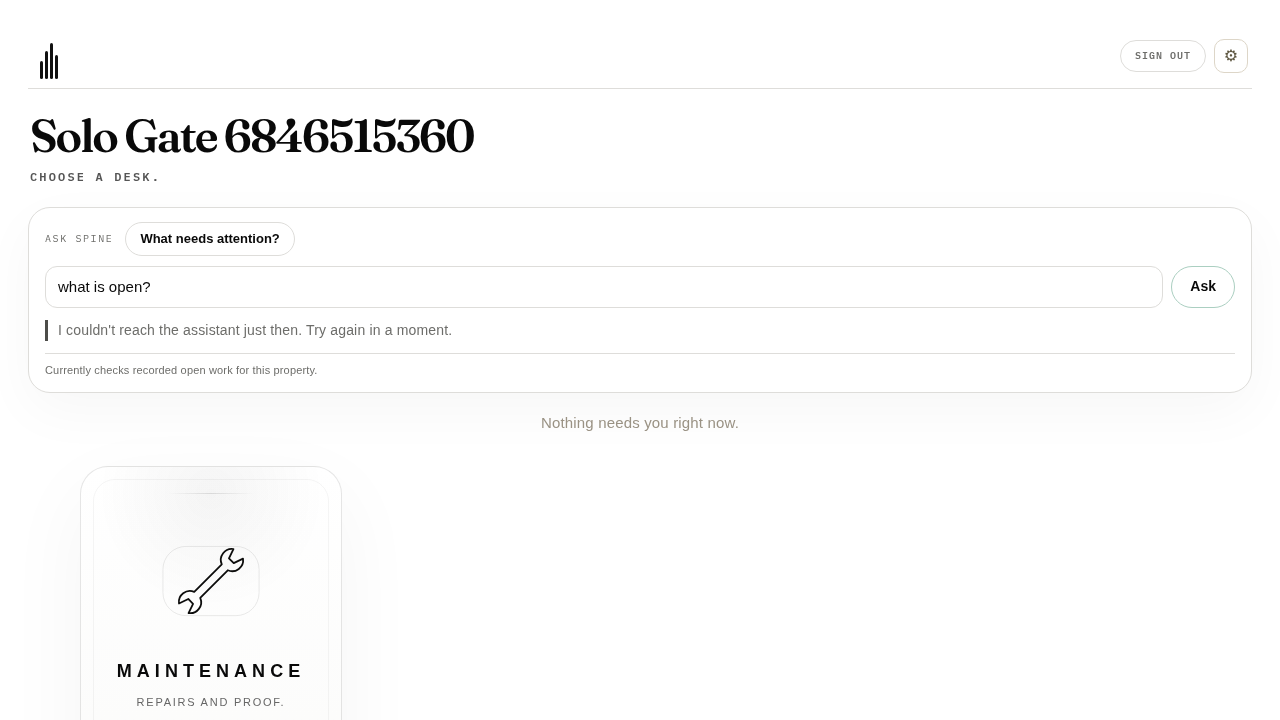
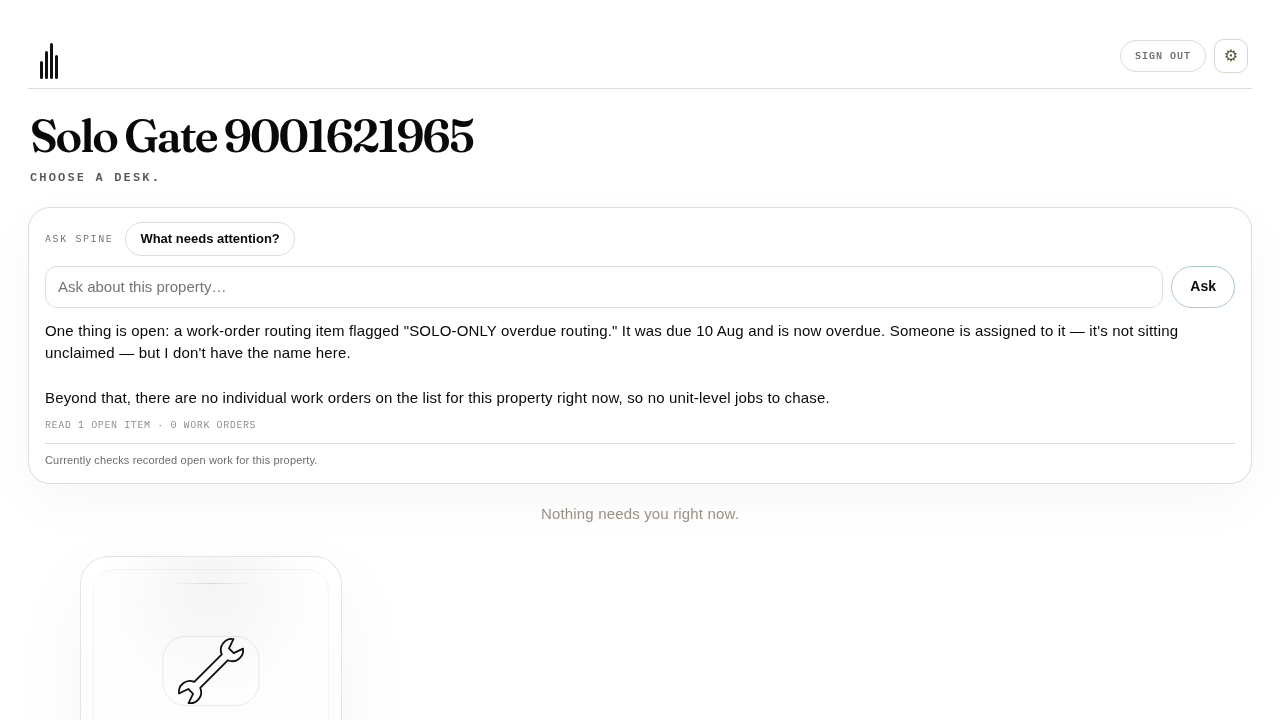
Fix the grounding assertion: innerText applies text-transform
Checks 1, 2 and 3 reported "no grounding line — the claim is not checkable"
against an app that was rendering the grounding line correctly the whole
time.

`.as-ground` is styled `text-transform: uppercase`. innerText is
layout-aware — which is exactly why this file reads innerText and not
textContent — and layout-awareness includes the transform. The browser
returns "READ 1 OPEN ITEM · 0 WORK ORDERS"; the assertion tested /Read /,
case-sensitively, and could never match.

Measured rather than reasoned: a bare div with that one CSS rule returns
innerText "READ 1 OPEN ITEM" and textContent "Read 1 open item".

This is the innerText lesson arriving from a direction the earlier one did
not cover. The recorded trap is that innerText silently falls back to
textContent and reads hidden nodes as visible; the fix was to prefer
innerText for its layout-awareness. That was right, and this is its other
edge: layout-awareness means the string is the RENDERED one, so any
assertion on it must tolerate what CSS did to the text. A gate that
under-reports a passing surface is the same defect class as one that
over-reports a failing one — it just costs the time in a different place.

Both sites fixed — local mode and deployed mode.

Local gate now 29 passed · 0 failed · 0 NOT RUN, twice consecutively.

⚠ KNOWN GAP, recorded not fixed. Checks 6 and 6b run only when the key is
ABSENT, so this receipt — produced by a keyed run — carries
[…]

diff --git a/ask_spine_browser_gate.browser.js b/ask_spine_browser_gate.browser.js
@@ -261,7 +261,16 @@ async function deployedGate() {
     ok(`${n}   “${q}” → grounded answer`,
        r.outcome === "answered" && r.text.trim().length > 0,
        `outcome=${r.outcome} text=${JSON.stringify(r.text).slice(0, 240)}`);
-    ok(`     …and it shows what it read`, !!r.ground && /Read /.test(r.ground),
+    /*  CASE-INSENSITIVE ON PURPOSE. `.as-ground` is styled
+     *  `text-transform: uppercase`, and innerText is layout-aware — which is
+     *  exactly why this file reads innerText rather than textContent, and
+     *  layout-awareness includes the transform. The browser returns
+     *  "READ 1 OPEN ITEM · 0 WORK ORDERS"; textContent would return "Read …".
+     *  A case-sensitive /Read / therefore never matched, and reported a
+     *  grounding line that was rendering correctly as absent. Measured, not
+     *  reasoned: innerText "READ 1 OPEN ITEM" vs textContent "Read 1 open item"
+     *  on a bare div with that one CSS rule.  */
+    ok(`     …and it shows what it read`, !!r.ground && /read /i.test(r.ground),
        "no grounding line — the claim is not checkable");
   }
 
@@ -649,7 +658,9 @@ function finish() {
       const r = await ask(q, false);
       ok(label, r.outcome === "answered" && r.text.length > 0,
          `outcome=${r.outcome} text=${JSON.stringify(r.text).slice(0, 200)}`);
-      ok("    …and it shows what it read", !!r.ground && /Read /.test(r.ground),
+      //  Case-insensitive — see the identical assertion in deployed mode for
+      //  why (`.as-ground` is uppercased by CSS and innerText reflects it).
+      ok("    …and it shows what it read", !!r.ground && /read /i.test(r.ground),
          "no grounding line — the claim is not checkable");
       //  Scope, observed in the answer itself: it must not name the other
       //  property's work.
